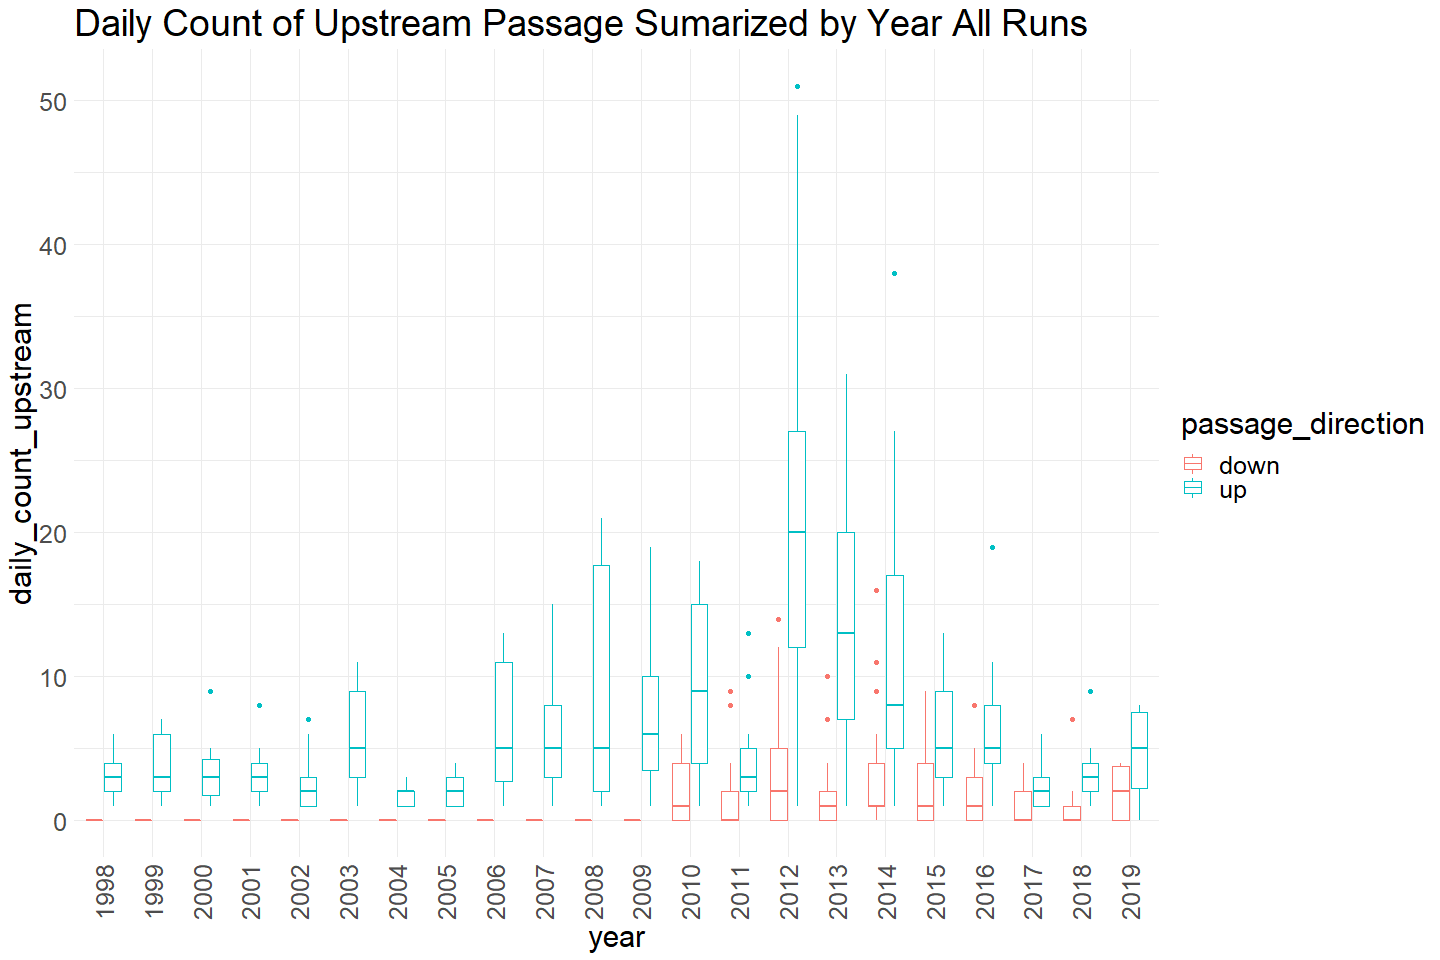
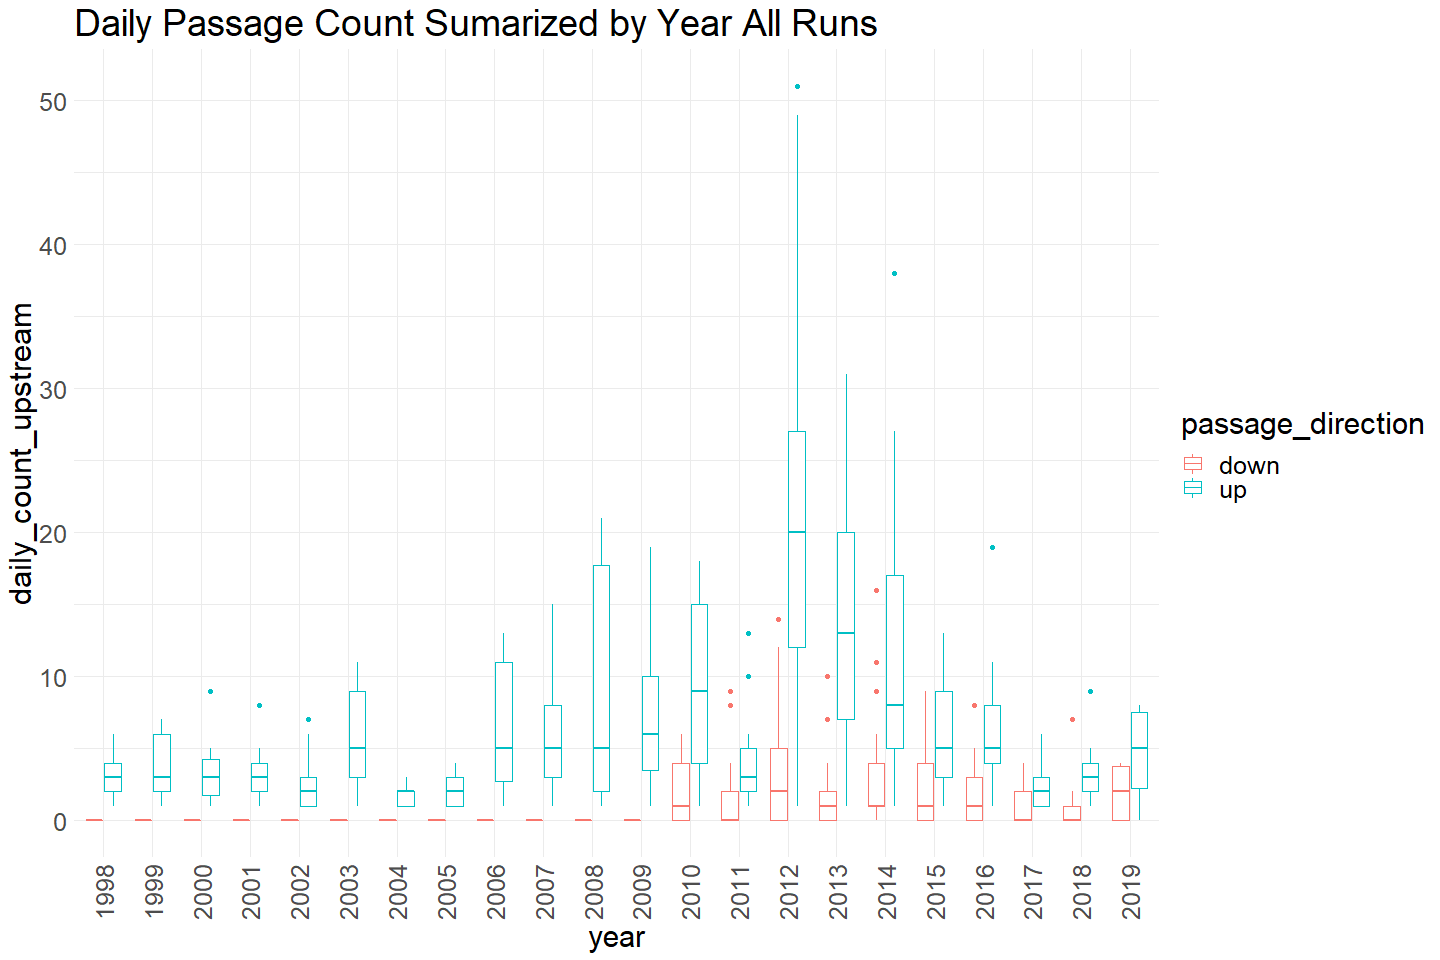
Edits titles of count plots

Changed region(s): [[0.0938, 0.0, 0.75, 0.0625]]

diff --git a/scripts/adult-upstream-passage-monitoring/battle-creek/battle_passage_video_data_qc.md b/scripts/adult-upstream-passage-monitoring/battle-creek/battle_passage_video_data_qc.md
@@ -122,7 +122,7 @@ cleaner_video_data %>% select_if(is.numeric) %>% colnames()
 
 ### Variable: `count`
 
-**Plotting Passage Counts Moving Up over Period of Record**
+**Plotting Passage Counts over Period of Record**
 
 ``` r
 cleaner_video_data %>% 
@@ -156,7 +156,7 @@ cleaner_video_data %>% group_by(date, passage_direction) %>%
   theme_minimal() +
   theme(text = element_text(size = 23),
         axis.text.x = element_text(angle = 90, vjust = 0.5, hjust=1)) + 
-  labs(title = "Daily Count of Upstream Passage Sumarized by Year All Runs") 
+  labs(title = "Daily Passage Count Sumarized by Year All Runs") 
 ```
 
 ![](battle_passage_video_data_qc_files/figure-gfm/unnamed-chunk-6-1.png)<!-- -->
@@ -168,20 +168,21 @@ cleaner_video_data  %>%
   group_by(year, passage_direction, run) %>%
   summarise(total_count = sum(count)) %>%
   ggplot(aes(x = year, y = total_count, fill = passage_direction)) + 
-  geom_col() + 
+  geom_col(position = "dodge") + 
   theme_minimal() +
-  labs(title = "Total Yearly Upstream Fish Counts by Run",
+  labs(title = "Total Yearly Fish Counts by Run",
        y = "Total fish count") + 
   theme(text = element_text(size = 18),
         axis.text.x = element_text(angle = 90, vjust = 0.5, hjust=1)) + 
-  facet_grid(~run)
+  facet_wrap(~run)
 ```
 
     ## `summarise()` has grouped output by 'year', 'passage_direction'. You can override using the `.groups` argument.
 
 ![](battle_passage_video_data_qc_files/figure-gfm/unnamed-chunk-7-1.png)<!-- -->
+We mainly have video data describing counts of Spring Run Fish
 
-**Numeric Summary of Passage Counts Moving Up over Period of Record**
+**Numeric Summary of Passage Counts over Period of Record**
 
 ``` r
 # Table with summary statistics
